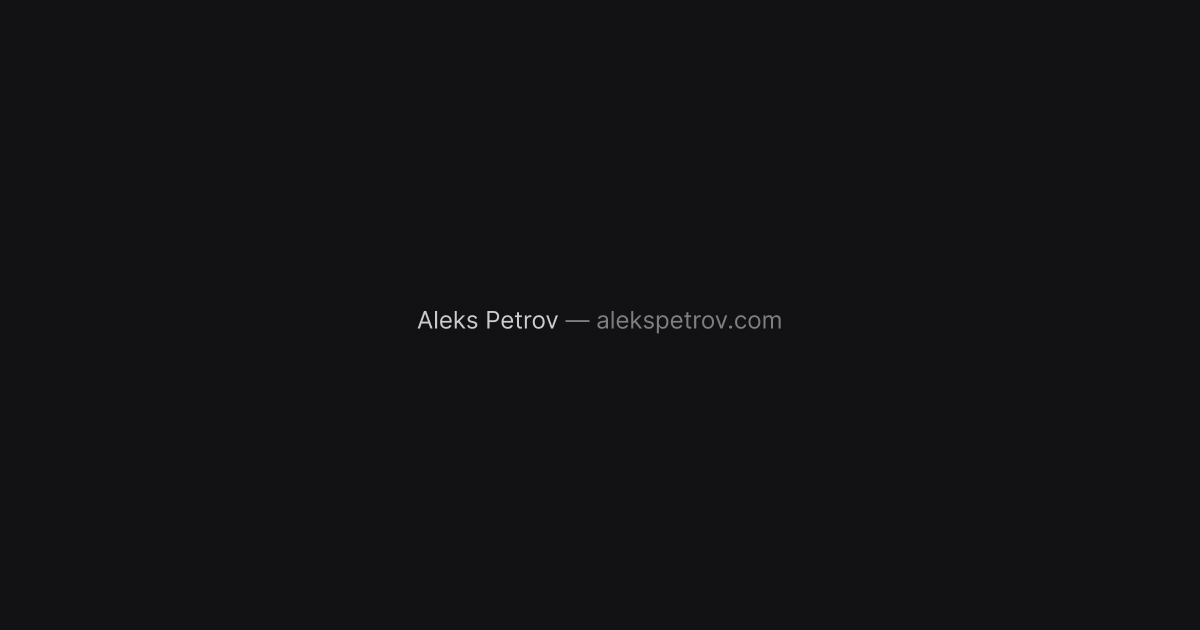
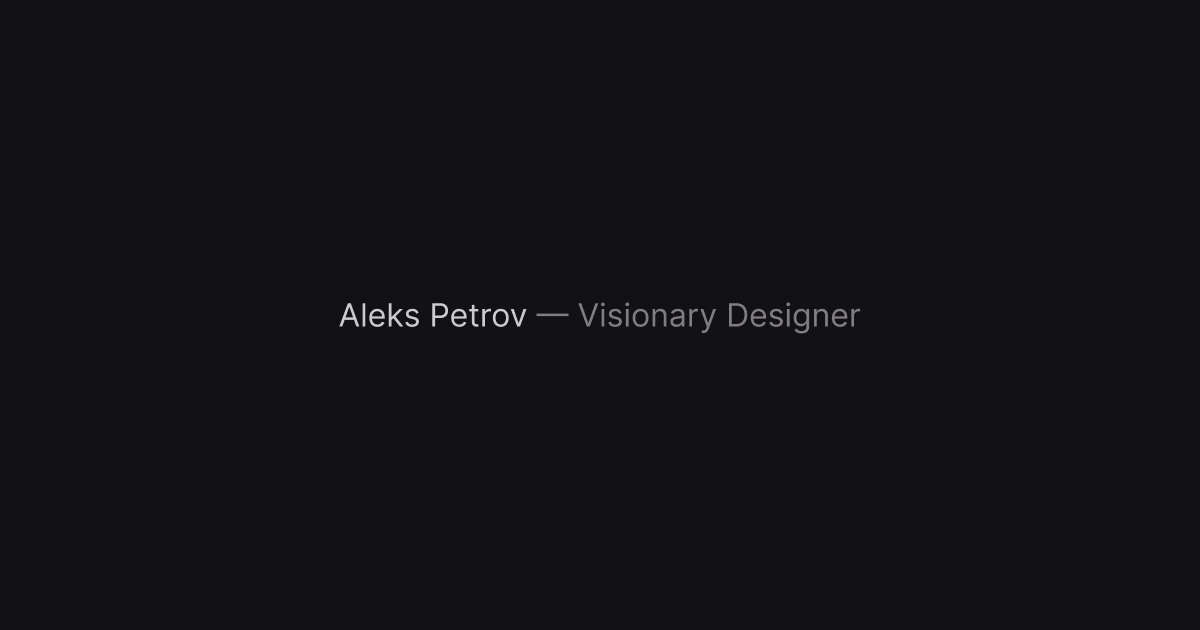
update twitter og

Changed region(s): [[0.2775, 0.4825, 0.7092, 0.5429]]

diff --git a/src/config.ts b/src/config.ts
@@ -2,7 +2,7 @@
 // You can import this data from anywhere in your site by using the `import` keyword.
 
 export const SITE_TITLE = "Aleks Petrov";
-export const SITE_DESCRIPTION = "Product Led";
+export const SITE_DESCRIPTION = "Visionary Designer";
 export const EMAIL = "hello@alekspetrov.com";
 export const SUPABASE_PUBLIC_URL = "https://eathcybqadpvaknyrpsb.supabase.co";
 export const SUPABASE_PUBLIC_KEY =
